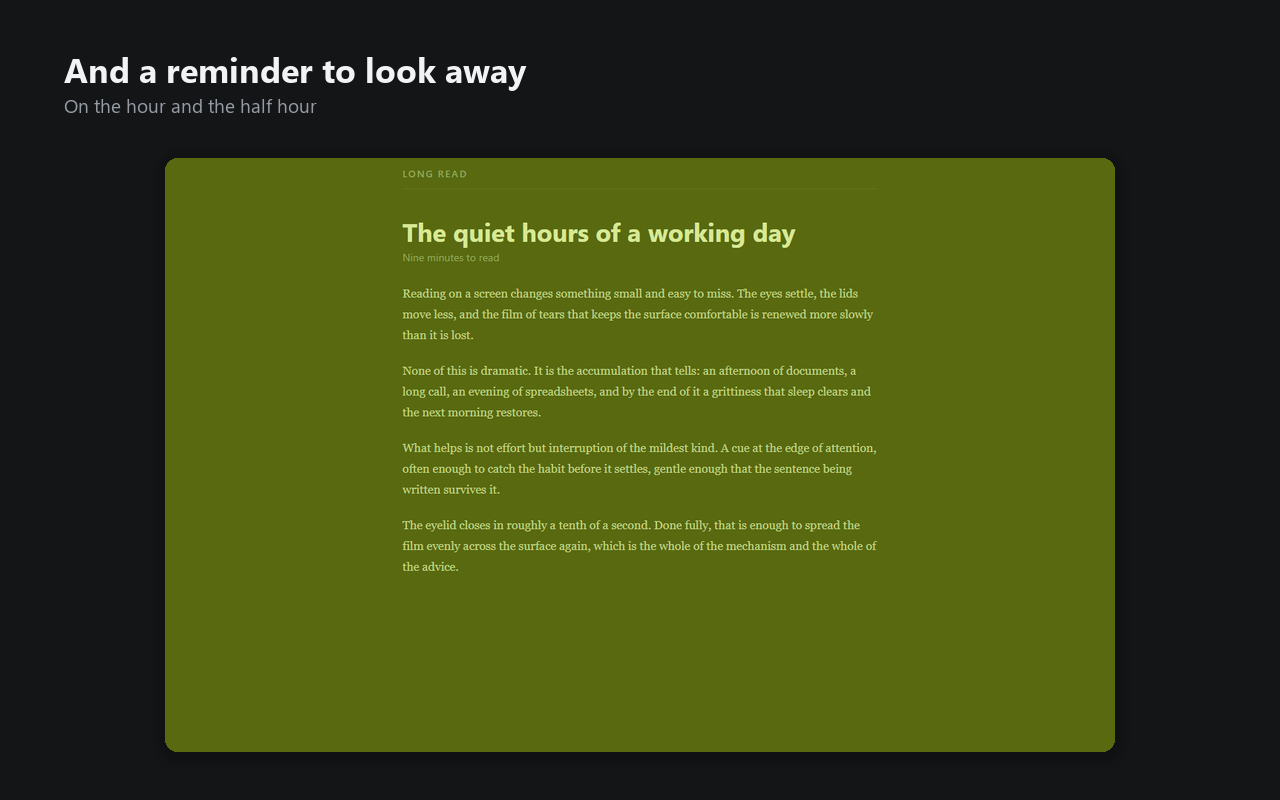
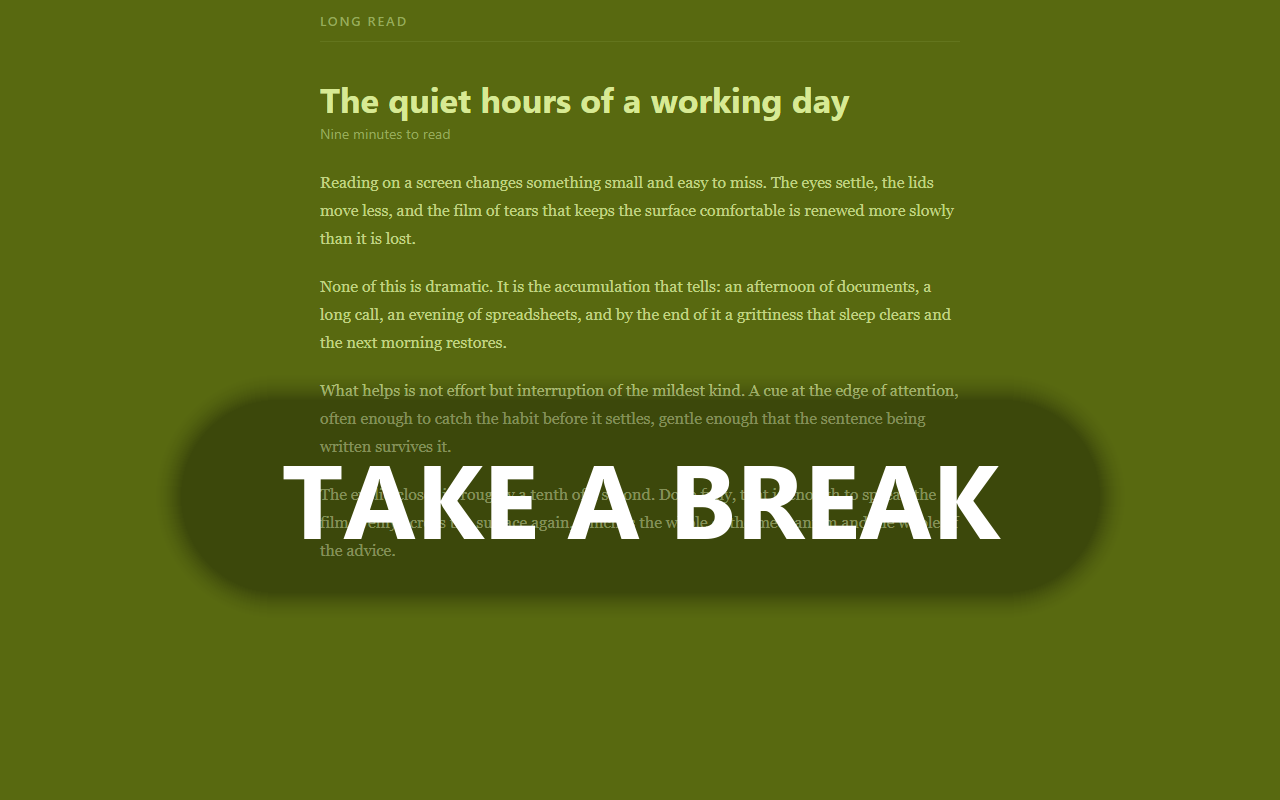
Store screenshots in the Windows listing's style, and 1.4.1.0
One word across each frame -- BLINK, CUSTOMISABLE, SNOOZE ANY TIME, TAKE A
BREAK, STILL RUNNING -- rather than a caption at the top, which the author
rightly said nobody reads. Same treatment the Windows screenshots already
use.

The Windows version goes to 1.4.1.0: the Store refuses a package whose
version has been uploaded before, and 1.4.0.0 had been.

diff --git a/store/make_chrome_assets.py b/store/make_chrome_assets.py
@@ -3,9 +3,10 @@
     node chrome/e2e/store-shots.js     # the raw frames, from a real Chrome
     py store/make_chrome_assets.py     # this: composes, captions, writes
 
-A screenshot of a quiet app says nothing on its own -- a lime circle over an
-article could be anything. Each frame is set on a dark card under one line
-saying what it is, the way the Windows listing puts BLINK across its own.
+A screenshot of a quiet app says nothing on its own: a lime circle over an
+article could be anything. Each frame carries one word across it, the way the
+Windows listing puts BLINK across its own. A line of small print at the top
+is not read; a word this size is not missed.
 
 Everything lands in store/chrome/. The numbered PNGs are what gets uploaded,
 1280x800 each; the "-raw" files are the untouched captures, kept so this can
@@ -23,19 +24,18 @@ sys.path.insert(0, REPO)
 from PIL import Image, ImageDraw, ImageFont          # noqa: E402
 
 W, H = 1280, 800
-GROUND = (20, 21, 23)
 TEXT = (242, 243, 245)
 MUTED = (150, 156, 166)
 DARK = (32, 32, 32)
 
-# Each frame, and the one line that says what it is. Short enough to read in
-# the thumbnail strip, which is where most people see them.
+# The word on each frame, and where its middle sits as a fraction of the
+# height -- chosen per frame to fall on the emptiest part of it.
 SHOTS = [
-    ("1-blink-cue", "A gentle cue to blink", "Click and type straight through it"),
-    ("4-settings", "Yours to tune", "Style, strength, size, timing, sound \u2014 and 30 languages"),
-    ("5-popup", "One click from the toolbar", "On, off, snooze, or blink now"),
-    ("2-break", "And a reminder to look away", "On the hour and the half hour"),
-    ("3-corner-dot", "A small dot says it is running", "Switch it off if you would rather not see it"),
+    ("1-blink-cue", "BLINK", 0.62),
+    ("4-settings", "CUSTOMISABLE", 0.86),
+    ("5-popup", "SNOOZE ANY TIME", 0.86),
+    ("2-break", "TAKE A BREAK", 0.62),
+    ("3-corner-dot", "STILL RUNNING", 0.88),
 ]
 
 
@@ -85,35 +85,47 @@ def save(img, name):
     print("  %s  %dx%d" % (name, img.width, img.height))
 
 
-def slide(frame, title, note):
-    """One frame on a dark card, under a line saying what it is."""
-    card = Image.new("RGBA", (W, H), GROUND + (255,))
-    d = ImageDraw.Draw(card)
-    d.text((64, 46), title, font=font(34, True), fill=TEXT)
-    d.text((64, 92), note, font=font(19), fill=MUTED)
+def headline(frame, word, y):
+    """The frame at full size, with one word laid across it.
 
-    # Scaled to leave room for the caption, and kept in proportion: a browser
-    # window stretched to fit would be the one dishonest thing here.
-    inner_w, inner_h = W - 128, H - 206
-    k = min(inner_w / float(frame.width), inner_h / float(frame.height))
-    small = frame.resize((int(frame.width * k), int(frame.height * k)), Image.LANCZOS)
-    at = ((W - small.width) // 2, 158)
-    box = (at[0], at[1], at[0] + small.width, at[1] + small.height)
-    rounded_shadow(card, box, 12, 22, 60)
-    mask = Image.new("L", small.size, 0)
-    ImageDraw.Draw(mask).rounded_rectangle((0, 0, small.width - 1, small.height - 1),
-                                           12, fill=255)
-    card.paste(small, at, mask)
+    Set in white, because the cue can be any colour the user picks and white
+    is the one that holds against all of them, and over a soft dark wash so
+    that it stays legible whatever is behind it -- a page can be any colour
+    too. The wash is under the word only, not across the whole frame: it
+    lifts the text off its background without hiding what is being shown.
+    """
+    card = frame.convert("RGBA")
+    d = ImageDraw.Draw(card)
+    size = 104
+    f = font(size, True)
+    while d.textlength(word, font=f) > W - 200 and size > 44:
+        size -= 4
+        f = font(size, True)
+    tw = d.textlength(word, font=f)
+    cx, cy = W // 2, int(H * y)
+
+    wash = Image.new("RGBA", card.size, (0, 0, 0, 0))
+    wd = ImageDraw.Draw(wash)
+    pad_x, pad_y = 100, int(size * 0.92)
+    for i in range(30, 0, -1):
+        a = int(86 * (1 - i / 30.0) ** 1.7)
+        wd.rounded_rectangle((cx - tw / 2 - pad_x - i, cy - pad_y - i,
+                              cx + tw / 2 + pad_x + i, cy + pad_y + i),
+                             pad_y + i, fill=(0, 0, 0, a))
+    card.alpha_composite(wash)
+
+    ImageDraw.Draw(card).text((cx, cy), word, font=f, fill=(255, 255, 255, 255),
+                              anchor="mm")
     return card
 
 
-# -- the two frames that need composing before they are captioned -------------
+# -- the two frames that need composing before the word goes on ---------------
 
 page = shot("3-corner-dot-raw.png")
 # The dot sits 20 in from the right, 14 up from the bottom and 9 across, so
 # the crop is drawn tight around it -- magnifying an inch of blank page would
 # say nothing.
-inset(page, (W - 52, H - 46, W - 4, H - 4), 8, (W - 500, H - 440))
+inset(page, (W - 52, H - 46, W - 4, H - 4), 8, (W - 470, H - 500))
 page.convert("RGB").save(os.path.join(OUT, "3-corner-dot-composed.png"))
 
 back = shot("1-blink-cue-raw.png")
@@ -129,12 +141,12 @@ ImageDraw.Draw(back).rounded_rectangle(
     outline=(90, 95, 104, 255), width=1)
 back.convert("RGB").save(os.path.join(OUT, "5-popup-composed.png"))
 
-# -- the five slides ----------------------------------------------------------
+# -- the five screenshots -----------------------------------------------------
 
 SOURCE = {"3-corner-dot": "3-corner-dot-composed.png",
           "5-popup": "5-popup-composed.png"}
-for name, title, note in SHOTS:
-    save(slide(shot(SOURCE.get(name, name + "-raw.png")), title, note), name + ".png")
+for name, word, y in SHOTS:
+    save(headline(shot(SOURCE.get(name, name + "-raw.png")), word, y), name + ".png")
 for tmp in SOURCE.values():
     os.remove(os.path.join(OUT, tmp))
 

diff --git a/build.py b/build.py
@@ -25,7 +25,7 @@ NAME = "Dry Eyes Blink Reminder Lite"
 # DisplayName is matched against that reservation character for character --
 # copy it exactly, trailing punctuation and all, rather than retyping it.
 DISPLAY = "Dry Eyes Blink Reminder Lite"
-VERSION = (1, 4, 0, 0)
+VERSION = (1, 4, 1, 0)
 ICON = os.path.join(HERE, "build", "app.ico")
 VERSION_FILE = os.path.join(HERE, "build", "version.txt")
 ENTRY = os.path.join(HERE, "blink_reminder.py")

diff --git a/store/chrome/LISTING.md b/store/chrome/LISTING.md
@@ -15,8 +15,10 @@ Only the long description below is English-only.
 | Small promo tile (440×280) | `promo-440x280.png` |
 | Icon (128×128) | taken from the package; `icon-128.png` if a field asks for the file |
 
-Each carries a line saying what it is, since a lime circle over an article
-could otherwise be anything. The demo page is dark because that is where the
+Each carries one word across it, as the Windows listing puts BLINK across
+its own: BLINK, CUSTOMISABLE, SNOOZE ANY TIME, TAKE A BREAK, STILL RUNNING.
+A lime circle over an article could otherwise be anything, and a caption in
+small print at the top does not get read. The demo page is dark because that is where the
 cue's own default strength reads as it really is — on a white page a 34%
 wash is honestly faint, and a listing image nobody can see tells nobody
 anything.
